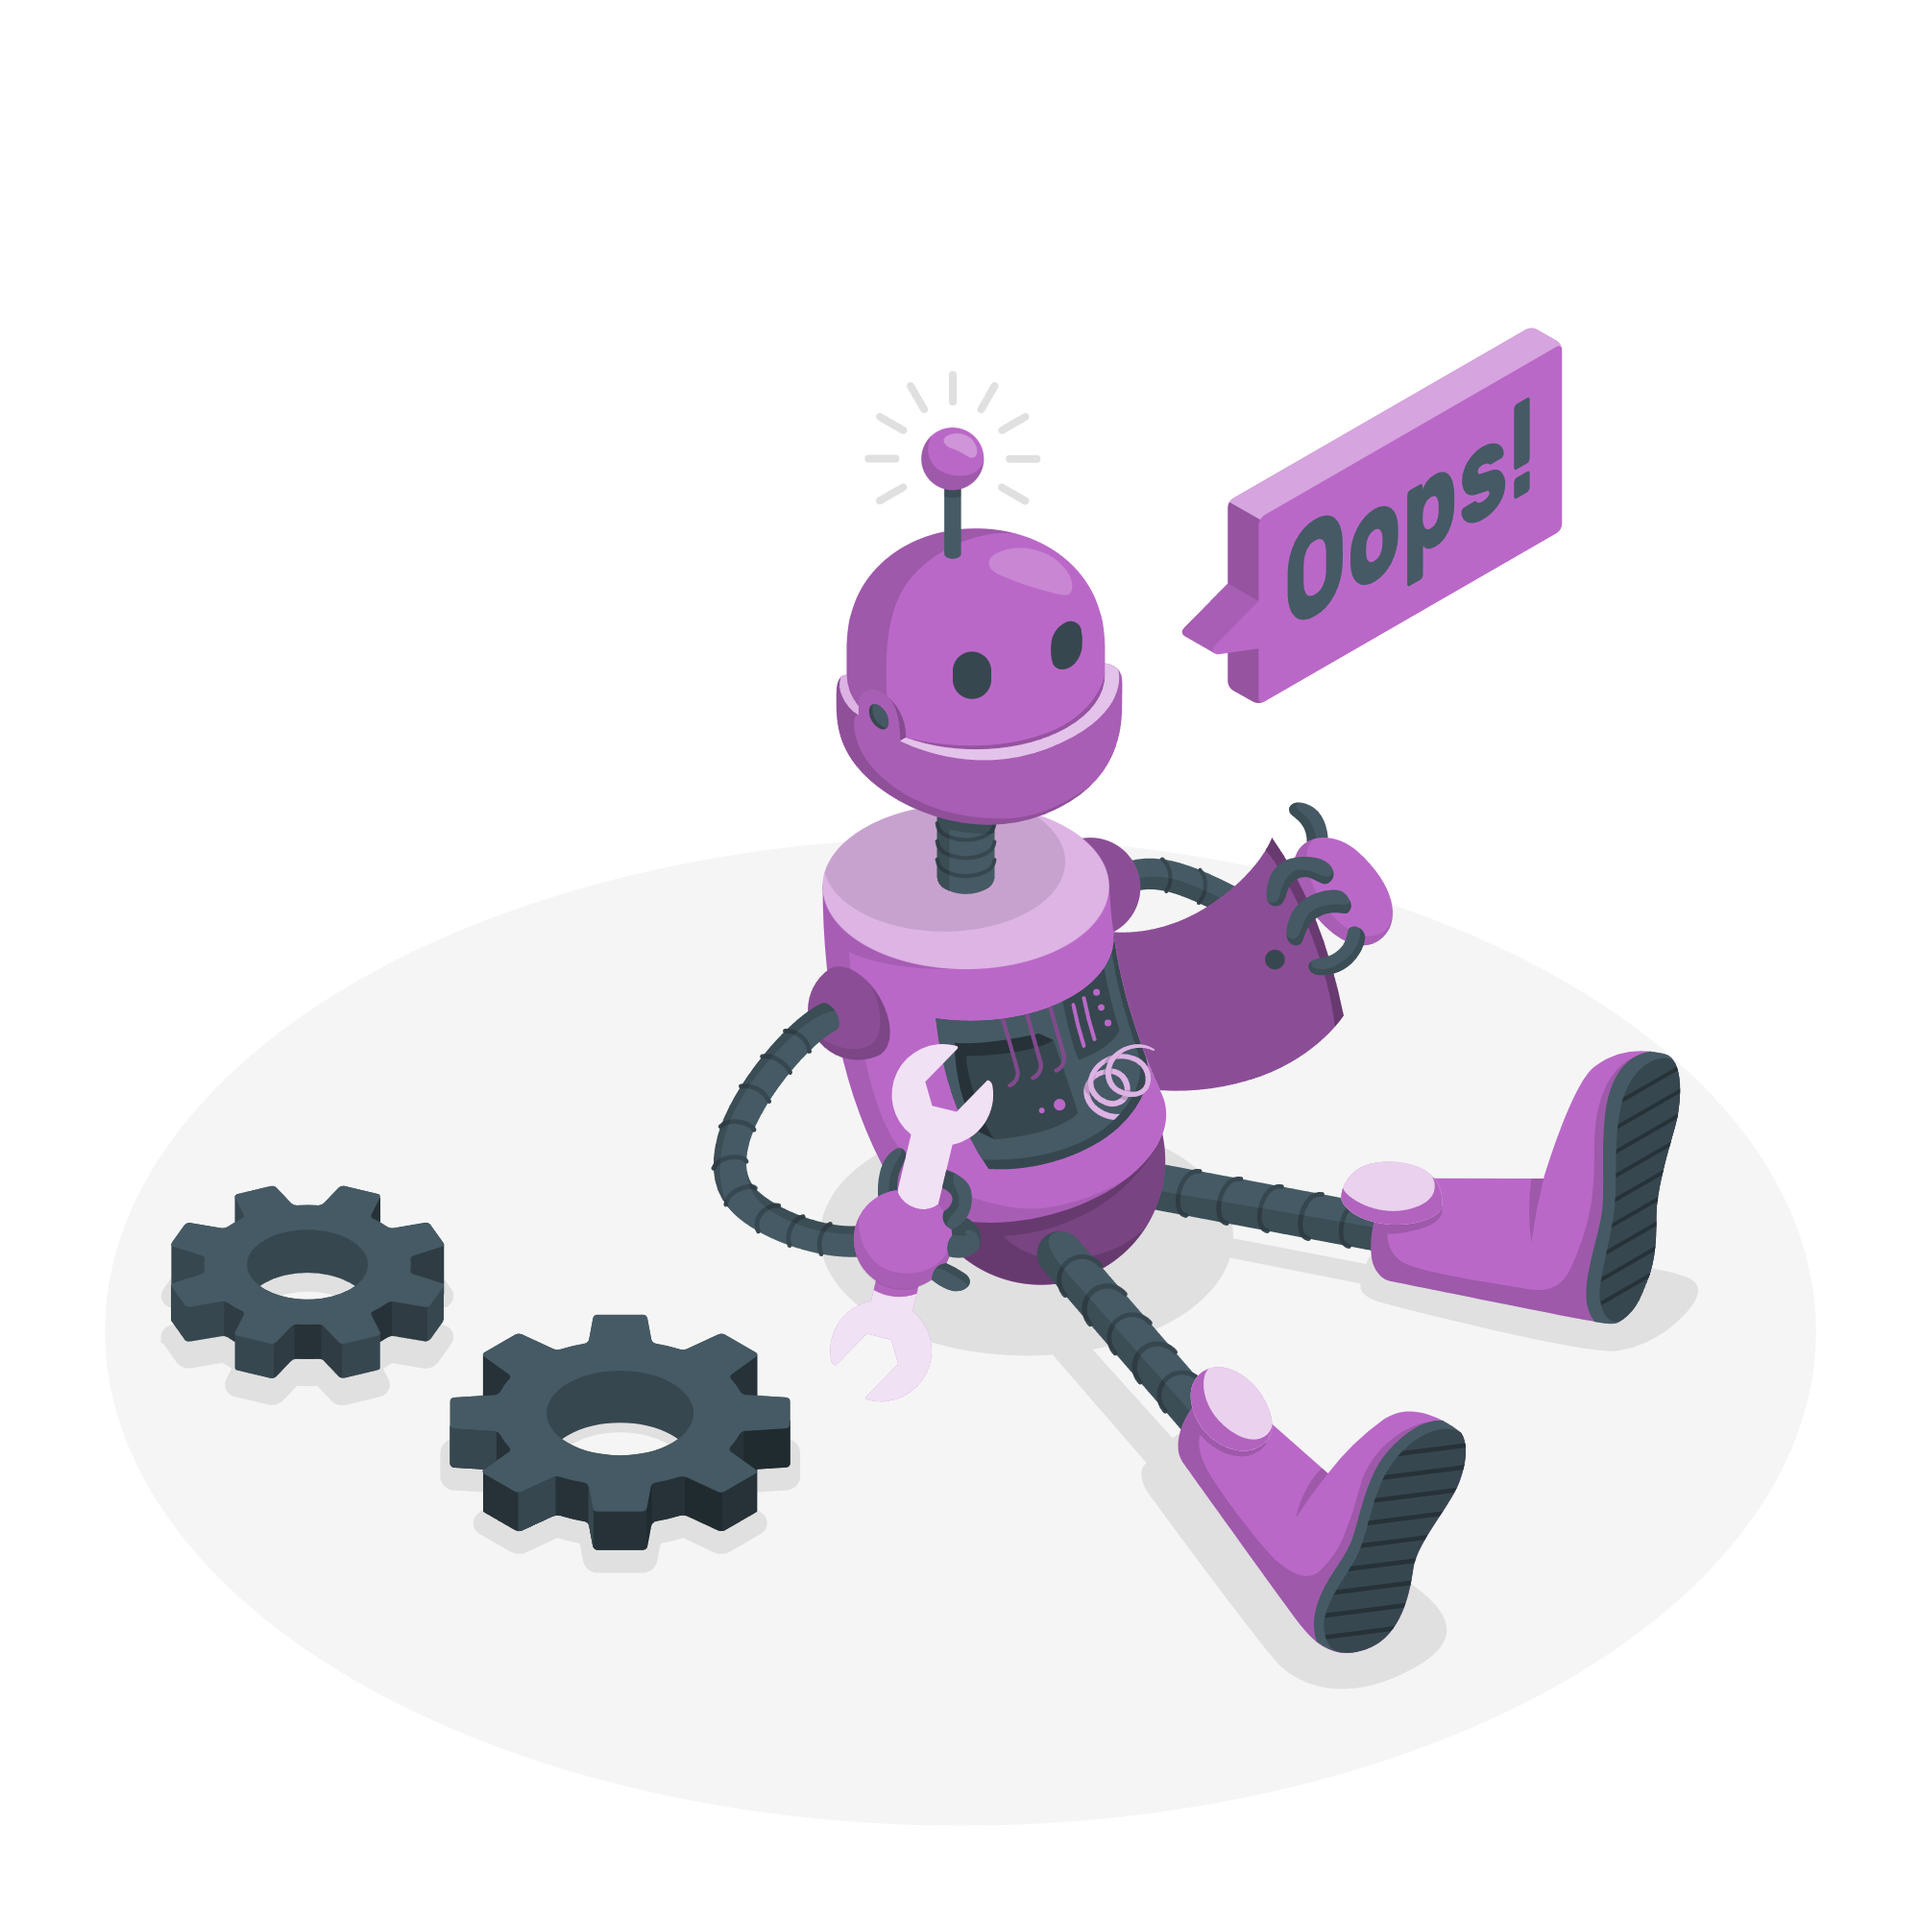
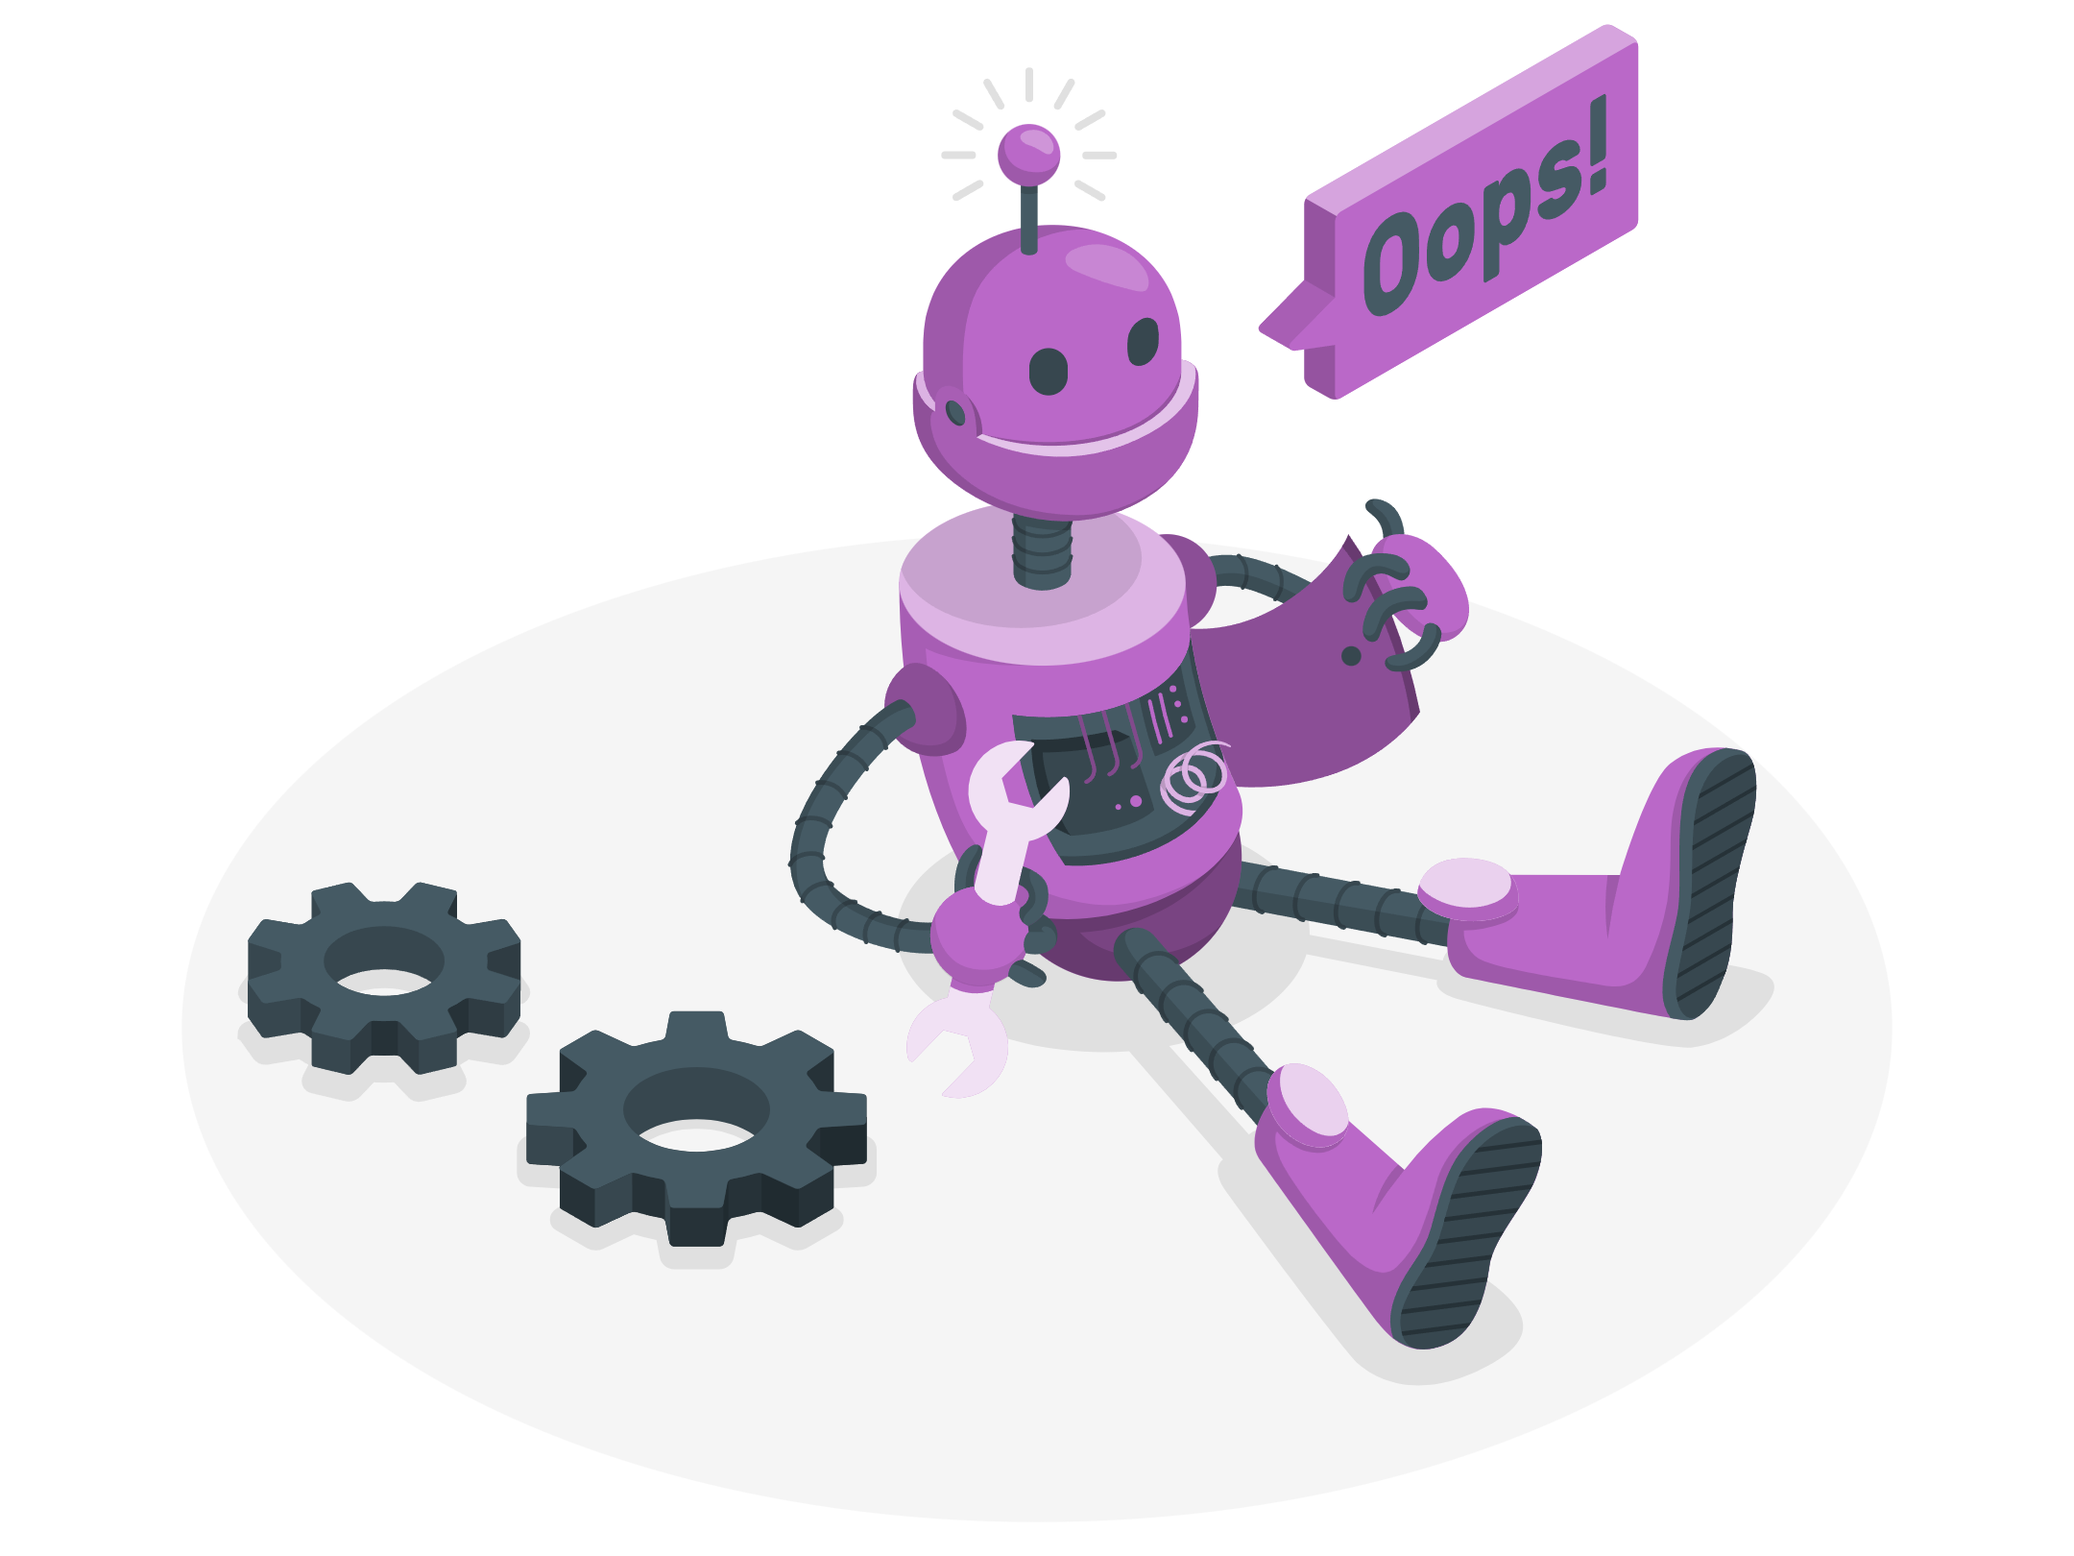
add ErrorMessage component

Changed region(s): [[0.062, 0.0, 0.899, 0.8642]]

diff --git a/src/App.js b/src/App.js
@@ -7,36 +7,14 @@ import Logo from './components/Logo/Logo';
 import Navigation from './components/Navigation/Navigation';
 import ParticlesBg from 'particles-bg'
 import ImageLoader from './components/ImageLoader/ImageLoader';
+import ErrorMessage from './components/ErrorMessage/ErrorMessage';
 
 function App() {
 
   const [imageUrl, setImageUrl] = useState("https://images.unsplash.com/photo-1438761681033-6461ffad8d80?ixlib=rb-4.0.3&ixid=MnwxMjA3fDB8MHxwaG90by1wYWdlfHx8fGVufDB8fHx8&auto=format&fit=crop&w=1470&q=80");
   const [isValidUrl, setIsValidUrl] = useState(true);
   const [isLoading, setIsLoading] = useState(false);
-  const [boxes, setBoxes] = useState([
-    {
-      "id": "48e07e32da72e0ce1bdeedfb53acc9ef",
-      "region_info": {
-        "bounding_box": {
-          "top_row": 0.18747647,
-          "left_col": 0.39775753,
-          "bottom_row": 0.6992775,
-          "right_col": 0.609766
-        }
-      },
-      "data": {
-        "concepts": [
-          {
-            "id": "ai_b1b1b1b1",
-            "name": "BINARY_POSITIVE",
-            "value": 0.9999988,
-            "app_id": "main"
-          }
-        ]
-      },
-      "value": 0.9999988
-    }
-  ]);
+  const [boxes, setBoxes] = useState([]);
 
   const PAT_KEY = "c0a5747fc60d4a84a6c8a13b39c8f405";
 
@@ -100,6 +78,7 @@ function App() {
         <ImageLinkForm setImageUrl={setImageUrl} setIsValidUrl={setIsValidUrl} setIsLoading={setIsLoading} />
         {!isLoading && isValidUrl && <FaceRecognition url={imageUrl} boxes={boxes} />}
         {isLoading && <ImageLoader />}
+        {!isLoading && !isValidUrl && <ErrorMessage />}
       </Container>
       <ParticlesBg color="#ffffff" type="cobweb" bg={true} config={{ rps: 0.005 }} />
     </div>

diff --git a/src/components/ErrorMessage/ErrorMessage.jsx b/src/components/ErrorMessage/ErrorMessage.jsx
@@ -1,0 +1,13 @@
+import React from 'react';
+import './ErrorMessage.css';
+import errorImage from '../../assets/error.png';
+
+const ErrorMessage = () => {
+    return (
+        <div className='error-message'>
+            <img className='error-img' src={errorImage} alt="error" />
+        </div>
+    );
+};
+
+export default ErrorMessage;

diff --git a/src/components/ErrorMessage/ErrorMessage.css b/src/components/ErrorMessage/ErrorMessage.css
@@ -1,0 +1,8 @@
+.error-message {
+    max-width: 50rem;
+    margin: 0 auto;
+}
+
+.error-img {
+    width: 100%;
+}
